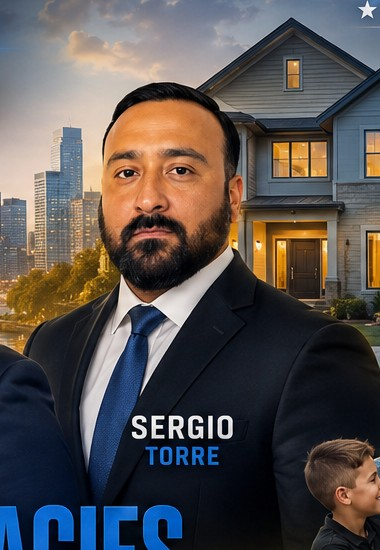
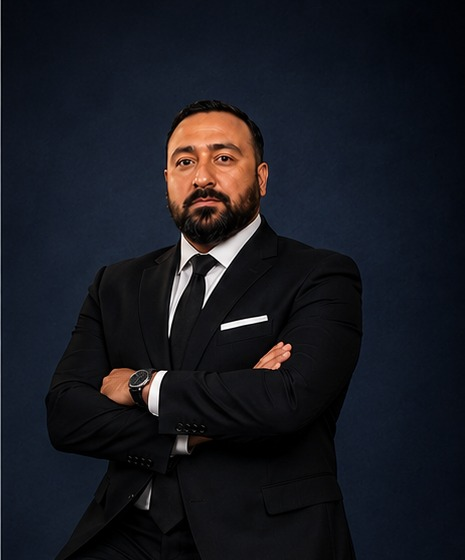
Add files via upload

diff --git a/team.html b/team.html
@@ -70,7 +70,7 @@
     <div class="section-head" style="text-align:center;max-width:640px;margin:0 auto 30px;">
       <div class="eyebrow">Our Growing Team</div>
       <h2 style="font-family:var(--font-display);color:var(--navy);font-size:26px;">Who's on Each Team</h2>
-      <p style="color:var(--slate);font-size:14px;">Placeholder rosters — swap in real names as the teams grow. <em>Some names shown are illustrative only.</em></p>
+      <p style="color:var(--slate);font-size:14px;">Real names shown where confirmed — open slots marked "Coming Soon" until rosters are finalized.</p>
     </div>
 
     <div class="roster-grid">
@@ -84,16 +84,16 @@
           </div>
         </div>
         <div class="roster-list">
-          <div class="roster-item"><div class="roster-avatar">MW</div>Marcus Webb</div>
-          <div class="roster-item"><div class="roster-avatar">EC</div>Elena Cruz</div>
-          <div class="roster-item"><div class="roster-avatar">JP</div>Jordan Pierce</div>
-          <div class="roster-item"><div class="roster-avatar">NR</div>Natalie Ross</div>
-          <div class="roster-item"><div class="roster-avatar">DC</div>Deshawn Carter</div>
-          <div class="roster-item"><div class="roster-avatar">PP</div>Priya Patel</div>
-          <div class="roster-item"><div class="roster-avatar">LB</div>Logan Brooks</div>
-          <div class="roster-item"><div class="roster-avatar">CR</div>Camille Rivera</div>
-          <div class="roster-item"><div class="roster-avatar">TS</div>Trevor Simmons</div>
-          <div class="roster-item"><div class="roster-avatar">AB</div>Aisha Bennett</div>
+          <div class="roster-item placeholder"><div class="roster-avatar">—</div>Coming Soon</div>
+          <div class="roster-item placeholder"><div class="roster-avatar">—</div>Coming Soon</div>
+          <div class="roster-item placeholder"><div class="roster-avatar">—</div>Coming Soon</div>
+          <div class="roster-item placeholder"><div class="roster-avatar">—</div>Coming Soon</div>
+          <div class="roster-item placeholder"><div class="roster-avatar">—</div>Coming Soon</div>
+          <div class="roster-item placeholder"><div class="roster-avatar">—</div>Coming Soon</div>
+          <div class="roster-item placeholder"><div class="roster-avatar">—</div>Coming Soon</div>
+          <div class="roster-item placeholder"><div class="roster-avatar">—</div>Coming Soon</div>
+          <div class="roster-item placeholder"><div class="roster-avatar">—</div>Coming Soon</div>
+          <div class="roster-item placeholder"><div class="roster-avatar">—</div>Coming Soon</div>
         </div>
       </div>
 
@@ -106,16 +106,16 @@
           </div>
         </div>
         <div class="roster-list">
-          <div class="roster-item"><div class="roster-avatar">SG</div>Susy Gordon</div>
           <div class="roster-item"><div class="roster-avatar">AV</div>Annalisse Villagran</div>
           <div class="roster-item"><div class="roster-avatar">AQ</div>Amaris Quintana</div>
-          <div class="roster-item"><div class="roster-avatar">DF</div>Diego Fernandez</div>
-          <div class="roster-item"><div class="roster-avatar">KM</div>Katelyn Moore</div>
-          <div class="roster-item"><div class="roster-avatar">XH</div>Xavier Holt</div>
-          <div class="roster-item"><div class="roster-avatar">BL</div>Brianna Lopez</div>
-          <div class="roster-item"><div class="roster-avatar">MJ</div>Malik Johnson</div>
-          <div class="roster-item"><div class="roster-avatar">SN</div>Sophia Nguyen</div>
-          <div class="roster-item"><div class="roster-avatar">RW</div>Ryan Whitfield</div>
+          <div class="roster-item"><div class="roster-avatar">SG</div>Susy Gordon</div>
+          <div class="roster-item placeholder"><div class="roster-avatar">—</div>Coming Soon</div>
+          <div class="roster-item placeholder"><div class="roster-avatar">—</div>Coming Soon</div>
+          <div class="roster-item placeholder"><div class="roster-avatar">—</div>Coming Soon</div>
+          <div class="roster-item placeholder"><div class="roster-avatar">—</div>Coming Soon</div>
+          <div class="roster-item placeholder"><div class="roster-avatar">—</div>Coming Soon</div>
+          <div class="roster-item placeholder"><div class="roster-avatar">—</div>Coming Soon</div>
+          <div class="roster-item placeholder"><div class="roster-avatar">—</div>Coming Soon</div>
         </div>
       </div>
 
@@ -128,16 +128,16 @@
           </div>
         </div>
         <div class="roster-list">
-          <div class="roster-item"><div class="roster-avatar">IO</div>Isabella Ortiz</div>
-          <div class="roster-item"><div class="roster-avatar">CB</div>Connor Blake</div>
-          <div class="roster-item"><div class="roster-avatar">RF</div>Renee Foster</div>
-          <div class="roster-item"><div class="roster-avatar">JV</div>Julian Vega</div>
-          <div class="roster-item"><div class="roster-avatar">MH</div>Mackenzie Hale</div>
-          <div class="roster-item"><div class="roster-avatar">AS</div>Andre Simmons</div>
-          <div class="roster-item"><div class="roster-avatar">LC</div>Lauren Castillo</div>
-          <div class="roster-item"><div class="roster-avatar">OS</div>Omar Sheikh</div>
-          <div class="roster-item"><div class="roster-avatar">DP</div>Danielle Park</div>
-          <div class="roster-item"><div class="roster-avatar">TG</div>Tyler Grant</div>
+          <div class="roster-item placeholder"><div class="roster-avatar">—</div>Coming Soon</div>
+          <div class="roster-item placeholder"><div class="roster-avatar">—</div>Coming Soon</div>
+          <div class="roster-item placeholder"><div class="roster-avatar">—</div>Coming Soon</div>
+          <div class="roster-item placeholder"><div class="roster-avatar">—</div>Coming Soon</div>
+          <div class="roster-item placeholder"><div class="roster-avatar">—</div>Coming Soon</div>
+          <div class="roster-item placeholder"><div class="roster-avatar">—</div>Coming Soon</div>
+          <div class="roster-item placeholder"><div class="roster-avatar">—</div>Coming Soon</div>
+          <div class="roster-item placeholder"><div class="roster-avatar">—</div>Coming Soon</div>
+          <div class="roster-item placeholder"><div class="roster-avatar">—</div>Coming Soon</div>
+          <div class="roster-item placeholder"><div class="roster-avatar">—</div>Coming Soon</div>
         </div>
       </div>
 

diff --git a/styles.css b/styles.css
@@ -688,6 +688,15 @@ nav.mainnav a.active{
 .roster-column.col-tony .roster-avatar{background:linear-gradient(135deg,#0F9D57,#33C77E);}
 .roster-column.col-sergio .roster-avatar{background:linear-gradient(135deg,#6C4FF0,#8A6CF2);}
 
+.roster-item.placeholder{
+  color:var(--slate-light);
+  font-style:italic;
+}
+.roster-item.placeholder .roster-avatar{
+  background:#D8DEEC !important;
+  color:#8890A0;
+}
+
 /* ---------- Meet the Team ---------- */
 .team-grid{
   display:grid;
@@ -701,7 +710,7 @@ nav.mainnav a.active{
   position:relative;
   border-radius:16px;
   overflow:hidden;
-  aspect-ratio:380/550;
+  aspect-ratio:5/6;
   box-shadow:0 16px 30px -16px rgba(10,26,60,.4);
 }
 .team-card img{
